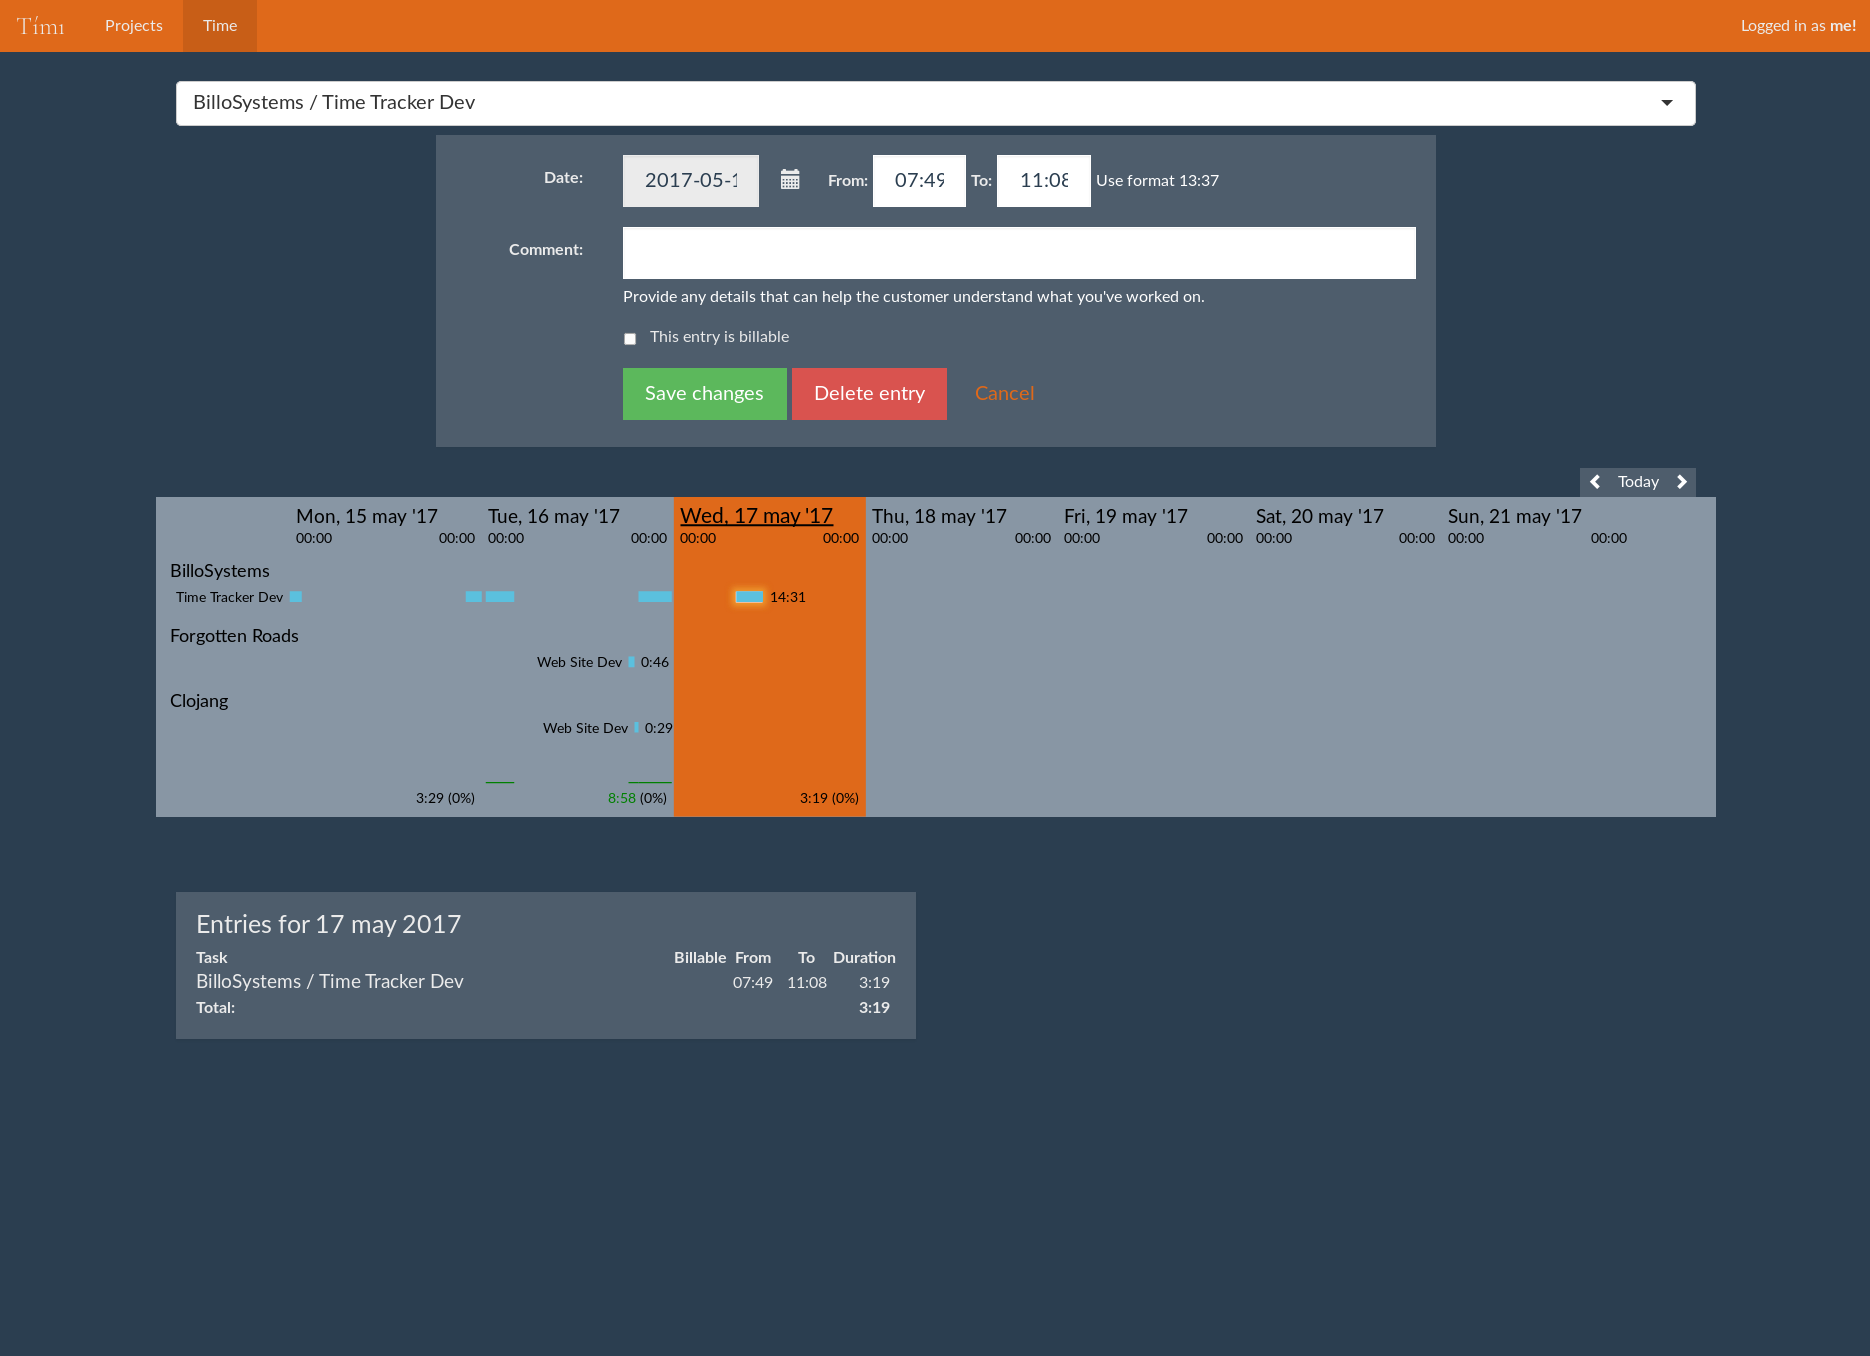
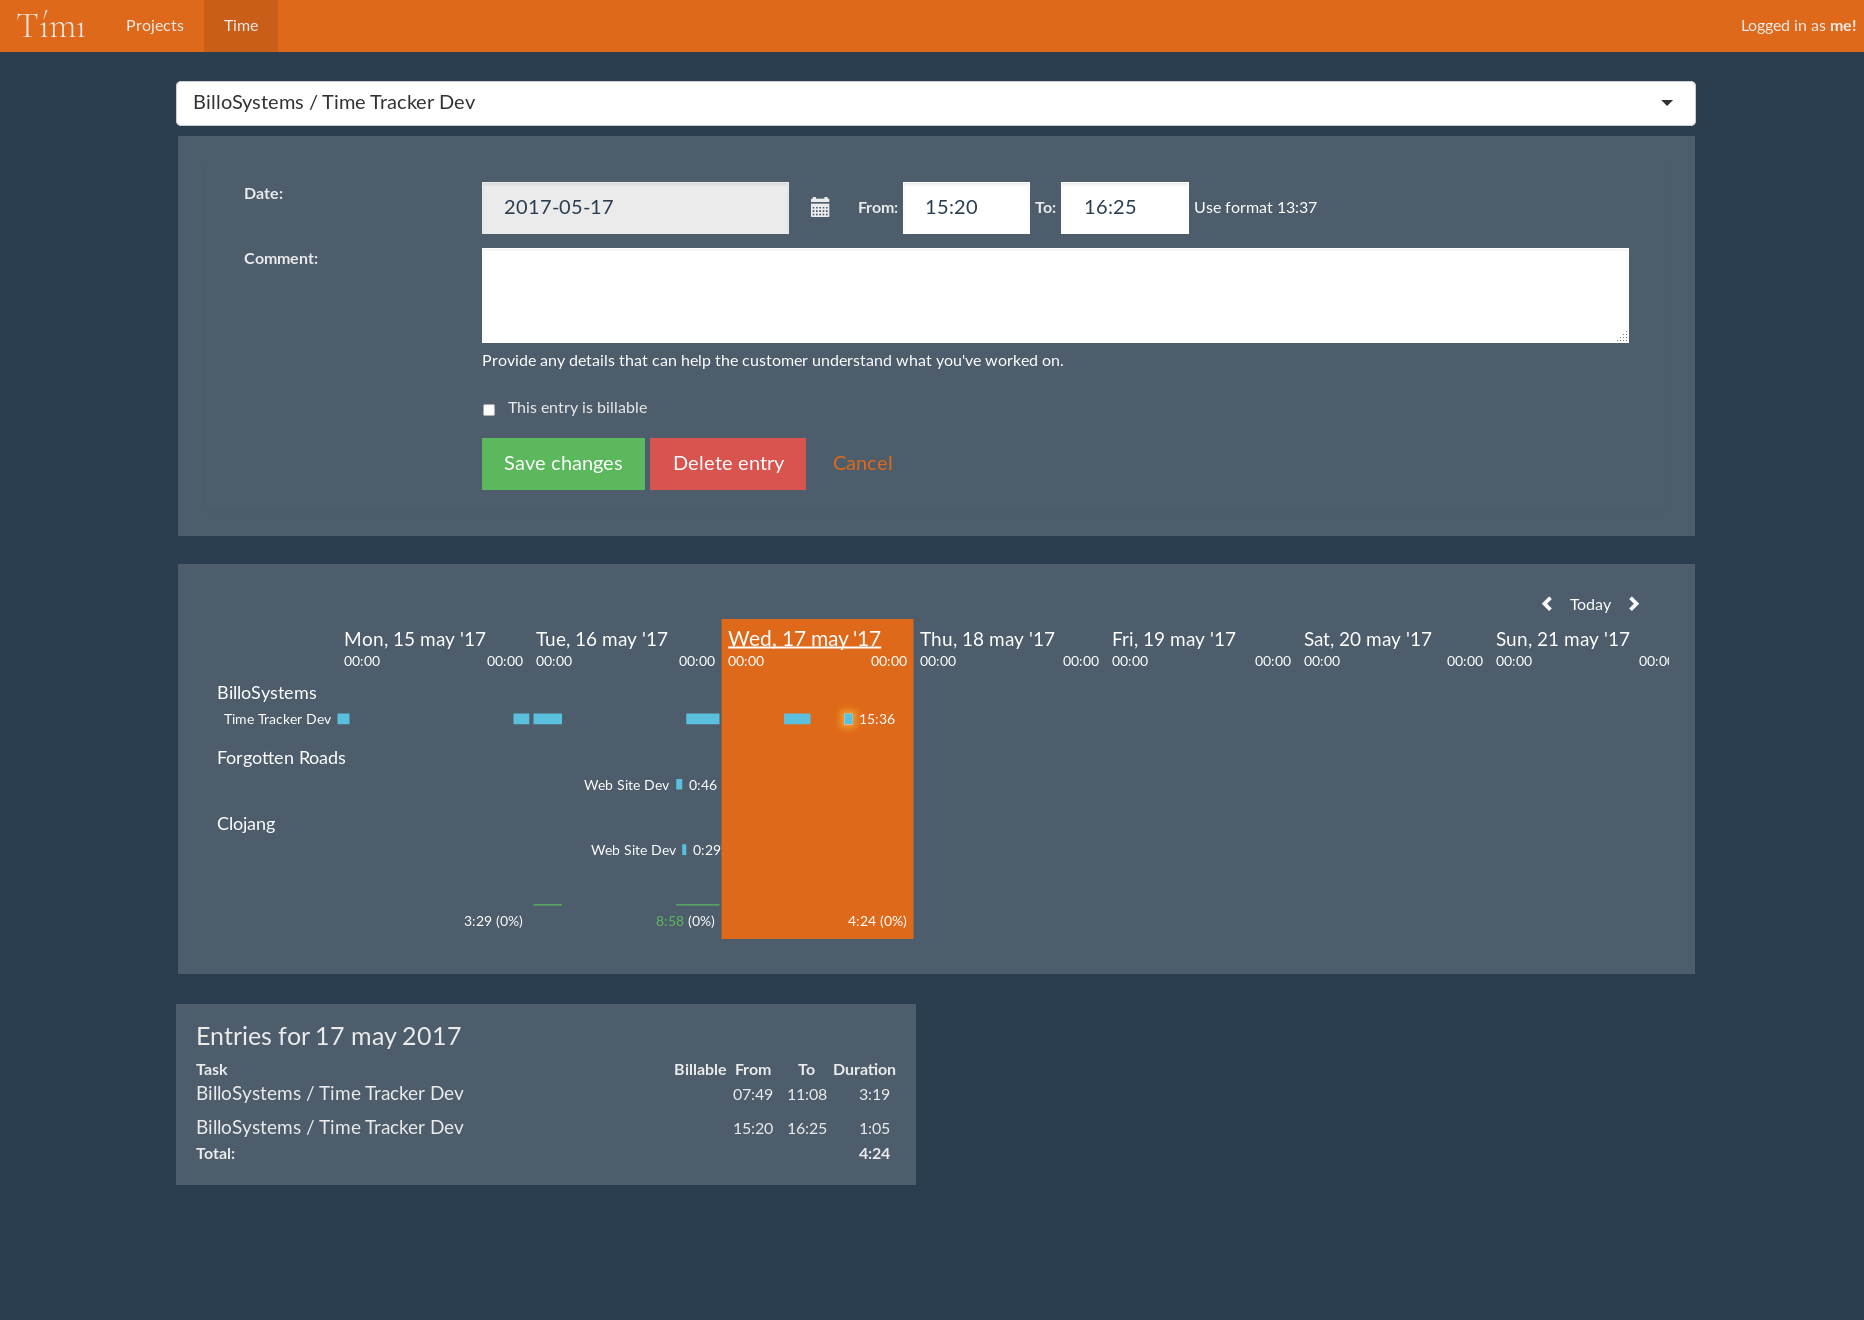
Styles fixes.

diff --git a/resources/public/css/timi.css b/resources/public/css/timi.css
@@ -1,35 +1,38 @@
 .navbar-brand {
   font-family: 'Cormorant Garamond', serif;
+  font-size: 225%;
 }
 
 .form-inline .time-entry-input {
-    width: 70px;
 }
 
 .input-group-datepicker {
-    width: 150px;
 }
 
 .form-group-inline {
-    float: left;
-    margin-right: 15px;
+  float: left;
+  margin-right: 15px;
 }
 
 .form-group-inline:last-child {
-    margin-right: 0px;
+  margin-right: 0px;
 }
 
 .form-group-inline .help-block {
-    margin-bottom: 0;
+  margin-bottom: 0;
 }
 
-#activity-graphic row {
-  /*background-color: #d3d3cf;*/
-    /*background-color: #f8f8f8;*/
+.activity-graphic-row {
+  margin: 1px;
+  color: white;
+  fill: white;
+}
+
+.activity-graphic-row a:link, .activity-graphic-row a:hover {
+  color: white;
 }
 
 #activity-svg-container svg {
-  background-color: #8896a4;
 }
 
 .selected-date-highlight {
@@ -42,6 +45,7 @@
 }
 
 .time-line {
+  color: #f00;
 }
 
 .time-line.day-summary {
@@ -82,55 +86,55 @@
 }
 
 .project-heading {
-    font-size: 10pt;
-    fill: inherit;
+  font-size: 10pt;
+  fill: inherit;
 }
 
 .grid-day-separator {
-    /*stroke: #e7e7e7;*/
-    stroke: inherit;
-    stroke-width: 0.5;
+  /*stroke: #e7e7e7;*/
+  stroke: inherit;
+  stroke-width: 0.5;
 }
 
 .grid-time-label {
-    font-size: 8pt;
-    fill: inherit;
+  font-size: 8pt;
+  fill: inherit;
 }
 
 .grid-day-label {
-    fill: inherit;
-    font-size: 14px;
+  fill: inherit;
+  font-size: 14px;
 }
 
 .grid-day-label:hover {
-    text-decoration: underline;
-    cursor: pointer;
+  text-decoration: underline;
+  cursor: pointer;
 }
 
 .grid-day-label-is-selected {
-    text-decoration: underline;
-    font-size:16px;
+  text-decoration: underline;
+  font-size:16px;
 }
 
 .day-summary-label {
-    fill: inherit;
-    font-size: 8pt;
+  fill: inherit;
+  font-size: 8pt;
 }
 
 .time-line.day-complete-complete {
-    stroke: green;
+  stroke: #5cb85c;
 }
 
 .day-summary-label .day-complete-complete {
-    fill: green;
+  fill: #5cb85c;
 }
 
 .time-line.day-complete-not-complete {
-    stroke: inherit;
+  stroke: inherit;
 }
 
 .day-summary-label .day-complete-not-complete {
-    fill: inherit;
+  fill: inherit;
 }
 
 .hour-entry-active {
@@ -143,7 +147,7 @@
 }
 
 .row-entry-form {
-    margin-bottom: 0px;
+    margin: 1px;
 }
 
 #entry-form-container {
@@ -153,7 +157,7 @@
 }
 
 #entry-form-container.entry-form-visible {
-  max-height: 250px;
+  max-height: 300px;
 }
 
 #entry-form-container.has-errors {
@@ -161,42 +165,41 @@
 }
 
 .navbar-form-post-new-entry-bar {
-    padding-left: 0px;
-    padding-right: 0px;
-    margin-bottom: 0px;
+  padding-left: 0px;
+  padding-right: 0px;
+  margin-bottom: 0px;
 }
 
 .form-inline-no-horz-margin .form-group {
-    margin-left: 0px;
-    margin-right: 0px;
+  margin-left: 0px;
+  margin-right: 0px;
 }
 
 .entry-form .form-inline .help-block {
-    margin-top: 0;
+  margin-top: 0;
 }
 
 .entry-form .form-group {
-    margin-bottom: 5px;
+  margin-bottom: 5px;
 }
 
 .entry-form .help-block {
-    margin-bottom: 5px;
+  margin-bottom: 5px;
 }
 
 .entry-form.form-horizontal .checkbox {
-    padding-top: 0px;
+  padding-top: 0px;
 }
 
 .day-entry-table-row {
-  margin-top: 50px;
+  margin-top: 1.5em;
   margin-bottom: 20px;
 }
 
 .day-entry-table-container {
   /*border: 1px solid #ddd;*/
   /*padding: 15px;*/
-  font-size: 9pt;;
-  color: inherit;
+  font-size: 9pt;
 }
 
 .day-entry-table-time-value {
@@ -224,7 +227,6 @@
 }
 
 .day-entry-table-table th {
-  color: inherit;
 }
 .day-entry-table-table-header {
   margin-bottom: 5px;
@@ -252,16 +254,13 @@
 }
 
 .billing-method-badge-overhead {
-  background-color: inherit;
 }
 
 .billing-method-badge-nacalculatie,.billing-method-badge-hourly {
-  background-color: inherit;
 }
 
 .billing-method-badge-fixed-price {
   /*TODO: untested since we don't do nacalculatie anymore*/
-  background-color: inherit;
 }
 
 #post-new-entry-bar .selectize-control .selectize-input input {
@@ -274,9 +273,9 @@
 }
 
 .entry-form-errors {
-    display: none;
+  display: none;
 }
 
 .entry-form-errors-has-errors {
-    display: block;
+  display: block;
 }

diff --git a/resources/templates/time.html b/resources/templates/time.html
@@ -9,11 +9,11 @@
 </div>
 
 <input type="hidden" id="view-data" value="{{view-data}}" />
-<div class="row row-entry-form">
-  <div class="col-md-8 col-md-offset-2" id="entry-form-react-container">
+<div class="row row-entry-form" id="entry-form-react-container">
+  <div class="col-md-8 col-md-offset-2">
   </div>
 </div>
-<div class="row">
+<div class="row activity-graphic-row well">
   <div class="col-md-12" id="activity-graphic">
   </div>
 </div>
@@ -23,7 +23,7 @@
 {% endblock %}
 
 {% block end-of-body %}
-<div id="activity-graphic-tooltip-container">
+<div id="activity-graphic-tooltip-container well">
 </div>
 {% endblock %}
 
